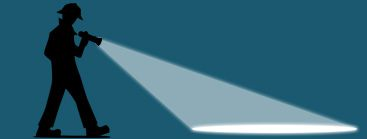
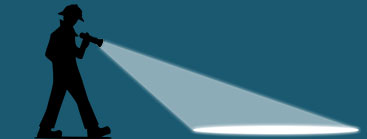
d
d

diff --git a/gian-sach.html b/gian-sach.html
@@ -222,7 +222,7 @@
 
                             <!--cat icon-->
                             <div style="margin:auto;max-width:25em;margin-top:2em;margin-bottom:1em;">
-                                <img src="images/library/scifi_icon.png" style="width:100%;" alt="scifi">
+                                <img src="images/library/scifi_icon.jpg" style="width:100%;" alt="scifi">
                             </div>
                         </div>
                     </div>
@@ -1868,7 +1868,7 @@
 
                             <!--cat icon-->
                             <div style="margin:auto;max-width:25em;margin-top:2em;margin-bottom:1em;">
-                                <img src="images/library/detec_icon.png" style="width:100%;" alt="detective">
+                                <img src="images/library/detec_icon.jpg" style="width:100%;" alt="detective">
                             </div>
                         </div>
                     </div>
